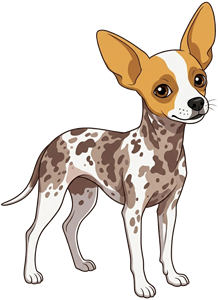
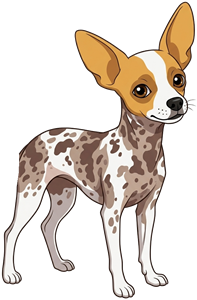
Nossa casinha: cachorros articulados (cabeça, orelhas, rabo e patas se mexem) e Elvis sem rabo

diff --git a/ar/caes/movimento.js b/ar/caes/movimento.js
@@ -1,0 +1,102 @@
+// Movimento dos cachorros desenhados. Duas camadas:
+//  1) transformar(): movimento do corpo todo (respirar, pulinho ao andar, achatar para deitar, empinar ao latir...)
+//  2) articular(): ângulo de cada articulação (cabeça, 2 orelhas, rabo, 4 patas) por ação, com mistura de 0,25 s entre ações.
+// Quem desenha (malha.js, com WebGL) usa os dois; desenho.js (sem WebGL) usa só o primeiro.
+const S = Math.sin, C = Math.cos, PI = Math.PI;
+const salto = (t) => { const k = (t % 0.45) / 0.45; return k < 0.32 ? S((k / 0.32) * PI) : 0; };
+const suave = (x) => x * x * (3 - 2 * x);
+
+// [esticar x, esticar y, inclinar (rad, + = cabeça para baixo), subir (fração da altura), deslocar x (fração da altura)]
+export function xf(a, t, tA, f, p0, sentada) {
+  const bob = sentada ? 0.075 : 0.04, bal = sentada ? 0.07 : 0.035;
+  switch (a) {
+    case 'walk': return [1, 1 + 0.015 * S(f * 2), bal * S(f), Math.abs(S(f)) * bob, 0];
+    case 'run': return [1 + 0.05 * S(f * 2 + 1), 1 - 0.04 * S(f * 2 + 1), 0.11 + 0.03 * S(f * 2), Math.max(0, S(f)) * (sentada ? 0.14 : 0.1), 0];
+    case 'jump': { const u = Math.max(0, p0); return [1 / (1 + u * 0.35), 1 + u * 0.35, -0.05, 0, 0]; }
+    case 'sit': return [1.03, sentada ? 1 : 0.9 + 0.012 * S(t * 2.2), -0.03, 0, 0];
+    case 'lie': return [1.1, 0.64 + 0.012 * S(t * 2), 0, 0, 0];
+    case 'sleep': return [1.12, 0.6 + 0.03 * S(t * 1.5), 0.02, 0, 0];
+    case 'curl': return [1.05, 0.62 + 0.01 * S(t * 2), 0.03, 0, 0.004 * S(t * 55)];
+    case 'shiver': return [1, 0.96, 0.02 * S(t * 55), 0, 0.006 * S(t * 47)];
+    case 'pant': return [1 - 0.012 * S(t * 14), 1 + 0.028 * S(t * 14), 0, 0, 0];
+    case 'bark': { const b = salto(tA); return [1 - 0.04 * b, 1 + 0.08 * b, -0.07 * b, 0.06 * b, 0]; }
+    case 'eat': case 'drink': return [1, 0.96, sentada ? 0.12 : 0.04, 0, 0.01];
+    case 'peeM': return [1, 1, -0.06, 0, 0];
+    case 'peeF': return [1.04, 0.84, 0.05, 0, 0];
+    case 'fight': return [1 + 0.04 * S(t * 8), 1, 0.1 * S(t * 8), Math.max(0, S(t * 5)) * 0.05, 0.02 * S(t * 8)];
+    case 'playbow': return [1, 0.92, sentada ? 0.15 : 0.1, 0, 0];
+    default: return [1 - 0.007 * S(t * 2.4), 1 + 0.014 * S(t * 2.4), 0.012 * S(t * 0.8), 0, 0]; // idle: respirando
+  }
+}
+
+// movimento do corpo todo, já misturado com a ação anterior. Devolve [sx, sy, rot, subir (px), deslocar x (px)]
+export function transformar(d, H, saida = [0, 0, 0, 0, 0]) {
+  const sentada = d.cfg.raca === 'shihtzu', p0 = d.p ? d.p[0] : 0;
+  const a = xf(d.acao, d.t, d.tA, d.fase, p0, sentada);
+  if (d.mist < 1) {
+    const b = xf(d.acaoAnt, d.t, d.tAnt, d.fase, 0, sentada), k = suave(d.mist);
+    for (let i = 0; i < 5; i++) a[i] = b[i] + (a[i] - b[i]) * k;
+  }
+  saida[0] = a[0]; saida[1] = a[1]; saida[2] = a[2];
+  saida[3] = a[3] * H + Math.max(0, p0) * d.tam; // pulo grande do evento de brincar (p[0] = subir)
+  saida[4] = a[4] * H;
+  return saida;
+}
+
+// ---- articulações ----
+// matriz [a, b, c, d, tx, ty]: x' = a·x + c·y + tx ; y' = b·x + d·y + ty
+const rot = (a, px, py) => { const c = C(a), s = S(a); return [c, s, -s, c, px - (c * px - s * py), py - (s * px + c * py)]; };
+const mul = (M, N) => [M[0] * N[0] + M[2] * N[1], M[1] * N[0] + M[3] * N[1], M[0] * N[2] + M[2] * N[3], M[1] * N[2] + M[3] * N[3],
+  M[0] * N[4] + M[2] * N[5] + M[4], M[1] * N[4] + M[3] * N[5] + M[5]];
+
+const OFF_ANDAR = [PI / 2, PI * 1.5, 0, PI], OFF_CORRER = [0, 0.35, PI, PI + 0.35];
+const CHAVES = ['cab', 'orA', 'orB', 'rabo', 'p0', 'p1', 'p2', 'p3'];
+
+// ângulos (rad; + = sentido horário na tela). cab + = cabeça para baixo; rabo + = rabo para cima; pernas + = pé para trás
+function angulos(a, t, tA, f, d, o) {
+  const E = d.energia, al = d.alegria == null ? 0.5 : d.alegria, ph = d.sem || 0;
+  o.cab = 0.045 * S(t * 0.9 + ph) + 0.03 * S(t * 2.3 + ph * 2);
+  o.orA = o.orB = 0.09 * S(t * 1.3 + ph);
+  o.orB -= Math.max(0, S(t * 0.43 + ph * 3) - 0.93) * 9; // de vez em quando uma orelha dá uma tremidinha
+  o.rabo = (0.16 + 0.3 * al) * S(t * (7 + 6 * E) + ph);
+  o.p0 = o.p1 = o.p2 = o.p3 = 0;
+  switch (a) {
+    case 'walk':
+      for (let i = 0; i < 4; i++) o['p' + i] = 0.38 * S(f + OFF_ANDAR[i]);
+      o.cab += 0.05 * S(f * 2); o.rabo += 0.1; break;
+    case 'run':
+      for (let i = 0; i < 4; i++) o['p' + i] = 0.72 * S(f + OFF_CORRER[i]);
+      o.cab = -0.08 + 0.06 * S(f * 2); o.orA = o.orB = -0.38 + 0.1 * S(f * 2); o.rabo = 0.35 + 0.3 * S(f * 2); break;
+    case 'jump': o.p0 = o.p1 = -0.8; o.p2 = o.p3 = 0.55; o.cab = -0.12; o.orA = o.orB = -0.4; o.rabo = 0.5; break;
+    case 'sit': o.cab = -0.05 + 0.04 * S(t * 0.7 + ph); o.rabo *= 0.5; break;
+    case 'lie': o.cab = 0.1 + 0.04 * S(t * 0.4 + ph); o.rabo *= 0.3; break;
+    case 'sleep': o.cab = 0.45 + 0.02 * S(t * 1.5); o.orA = o.orB = 0.1; o.rabo = 0.05 * S(t * 1.5); break;
+    case 'curl': o.cab = 0.5; o.orA = o.orB = -0.3; o.rabo = -0.6 + 0.04 * S(t * 55); break;
+    case 'shiver': o.cab = 0.12 + 0.025 * S(t * 55); o.orA = o.orB = -0.3; o.rabo = -0.5 + 0.05 * S(t * 47); break;
+    case 'pant': o.cab += 0.03 * S(t * 14); o.rabo *= 1.2; break;
+    case 'bark': { const k = salto(tA); o.cab = -0.22 * k; o.orA = o.orB = -0.2 * k; o.rabo = 0.5 * S(t * 15); break; }
+    case 'eat': case 'drink': o.cab = 0.55 + 0.07 * S(t * 9); o.orA = o.orB = 0.15; o.p0 = o.p1 = -0.14; o.rabo = 0.3 * S(t * 11 + ph); break;
+    case 'peeM': o.p2 = -1.15; o.cab = -0.1; o.rabo = 0.25; break;
+    case 'peeF': o.cab = 0.1; o.rabo = 0.35; break;
+    case 'fight': o.p0 = -0.9 + 0.5 * S(t * 12); o.p1 = -0.9 + 0.5 * S(t * 12 + PI); o.cab = 0.15 * S(t * 3); o.orA = o.orB = -0.2; o.rabo = 0.5 * S(t * 12); break;
+    case 'playbow': o.p0 = o.p1 = -0.55; o.cab = 0.25; o.rabo = 0.5 * S(t * 13); break;
+    default: break; // idle
+  }
+}
+
+const A1 = {}, A2 = {};
+// escreve as matrizes das 8 articulações em M (32 números) e T (16 números), na ordem: cabeça, orelha A, orelha B, rabo, 4 patas
+export function articular(d, ossos, M, T) {
+  angulos(d.acao, d.t, d.tA, d.fase, d, A1);
+  if (d.mist < 1) {
+    angulos(d.acaoAnt, d.t, d.tAnt, d.fase, d, A2);
+    const k = suave(d.mist);
+    for (const c of CHAVES) A1[c] = A2[c] + (A1[c] - A2[c]) * k;
+  }
+  if (d.cfg.raca === 'shihtzu') { A1.cab *= 0.5; A1.orA *= 0.6; A1.orB *= 0.6; } // sentada e fofa: cabeça e orelhas mexem menos
+  const mh = rot(A1.cab, ossos.cabeca.p[0], ossos.cabeca.p[1]);
+  const mats = [mh, mul(mh, rot(A1.orA, ossos.orelhas[0].p[0], ossos.orelhas[0].p[1])), mul(mh, rot(A1.orB, ossos.orelhas[1].p[0], ossos.orelhas[1].p[1])),
+    rot(A1.rabo, ossos.rabo.p[0], ossos.rabo.p[1])];
+  for (let i = 0; i < 4; i++) mats.push(rot(A1['p' + i], ossos.pernas[i].p[0], ossos.pernas[i].p[1]));
+  for (let i = 0; i < 8; i++) { const m = mats[i]; M[i * 4] = m[0]; M[i * 4 + 1] = m[1]; M[i * 4 + 2] = m[2]; M[i * 4 + 3] = m[3]; T[i * 2] = m[4]; T[i * 2 + 1] = m[5]; }
+}

diff --git a/ar/caes/malha.js b/ar/caes/malha.js
@@ -1,0 +1,102 @@
+// Boneco articulado em WebGL: cada desenho (ar/caes/img/*.png) vira uma grade de triângulos e as articulações (cabeça, orelhas, rabo,
+// 4 patas; ver `ossos` em config.js) puxam os pontos da grade, com transição suave entre as partes. Mantém a aparência do desenho e
+// dá movimento de verdade. Se o aparelho não tiver WebGL, dogs3d.js usa desenho.js (imagem inteira, sem articulações).
+import { articular, transformar } from './movimento.js';
+
+const VS = `
+attribute vec2 aUV; attribute vec4 aWa; attribute vec4 aWb;
+uniform vec2 uNat; uniform vec4 uM[8]; uniform vec2 uT[8];
+uniform vec4 uG; uniform vec4 uP; uniform vec2 uRes;
+varying vec2 vUV;
+void main() {
+  vec2 p0 = aUV * uNat;
+  float w[8];
+  w[0] = aWa.x; w[1] = aWa.y; w[2] = aWa.z; w[3] = aWa.w; w[4] = aWb.x; w[5] = aWb.y; w[6] = aWb.z; w[7] = aWb.w;
+  vec2 p = p0;
+  for (int i = 0; i < 8; i++) {
+    vec4 m = uM[i];
+    vec2 q = vec2(m.x * p0.x + m.z * p0.y, m.y * p0.x + m.w * p0.y) + uT[i];
+    p += w[i] * (q - p0);
+  }
+  vec2 l = (p - vec2(uNat.x * 0.5, uNat.y)) * uG.x * vec2(uP.z, uP.w);
+  float c = cos(uG.z), s = sin(uG.z);
+  l = vec2(c * l.x - s * l.y, s * l.x + c * l.y);
+  l.x *= uG.y;
+  vec2 sc = vec2(uP.x + l.x, uP.y + l.y);
+  gl_Position = vec4(sc.x / uRes.x * 2.0 - 1.0, 1.0 - sc.y / uRes.y * 2.0, 0.0, 1.0);
+  vUV = aUV;
+}`;
+const FS = `precision mediump float; varying vec2 vUV; uniform sampler2D uTex; void main() { gl_FragColor = texture2D(uTex, vUV); }`;
+
+const NX = 26, NY = 34; // grade de pontos
+const sm = (x) => (x <= 0 ? 0 : x >= 1 ? 1 : x * x * (3 - 2 * x));
+const regiao = (x, y, r, f) => sm((x - r[0]) / f) * sm((r[2] - x) / f) * sm((y - r[1]) / f) * sm((r[3] - y) / f);
+
+export function criarMalha(cfgs) {
+  const cv = document.createElement('canvas'); cv.className = 'caes-tela';
+  const gl = cv.getContext('webgl', { alpha: true, premultipliedAlpha: true, antialias: false, powerPreference: 'low-power' });
+  if (!gl) return null;
+  const sh = (tipo, fonte) => { const s = gl.createShader(tipo); gl.shaderSource(s, fonte); gl.compileShader(s); return gl.getShaderParameter(s, gl.COMPILE_STATUS) ? s : null; };
+  const vs = sh(gl.VERTEX_SHADER, VS), fs = sh(gl.FRAGMENT_SHADER, FS);
+  if (!vs || !fs) return null;
+  const pr = gl.createProgram(); gl.attachShader(pr, vs); gl.attachShader(pr, fs); gl.linkProgram(pr);
+  if (!gl.getProgramParameter(pr, gl.LINK_STATUS)) return null;
+  gl.useProgram(pr); gl.enable(gl.BLEND); gl.blendFunc(gl.ONE, gl.ONE_MINUS_SRC_ALPHA); gl.pixelStorei(gl.UNPACK_PREMULTIPLY_ALPHA_WEBGL, true);
+  const L = { aUV: gl.getAttribLocation(pr, 'aUV'), aWa: gl.getAttribLocation(pr, 'aWa'), aWb: gl.getAttribLocation(pr, 'aWb') };
+  const U = {}; for (const n of ['uNat', 'uM', 'uT', 'uG', 'uP', 'uRes', 'uTex']) U[n] = gl.getUniformLocation(pr, n);
+  gl.uniform1i(U.uTex, 0);
+  gl.enableVertexAttribArray(L.aUV); gl.enableVertexAttribArray(L.aWa); gl.enableVertexAttribArray(L.aWb);
+
+  const imgs = {}; // id -> { img, tex, buf, idx, n, pronto }
+  const M = new Float32Array(32), T = new Float32Array(16), xfm = [0, 0, 0, 0, 0];
+  let W = 1, H = 1;
+
+  function construir(cfg, o) {
+    const img = o.img, nw = img.naturalWidth, nh = img.naturalHeight, os = cfg.ossos;
+    const regs = [os.cabeca, os.orelhas[0], os.orelhas[1], os.rabo, ...os.pernas]; // mesma ordem das articulações
+    const dados = new Float32Array(NX * NY * 10);
+    for (let j = 0; j < NY; j++) for (let i = 0; i < NX; i++) {
+      const u = i / (NX - 1), v = j / (NY - 1), x = u * nw, y = v * nh, w = new Array(8);
+      for (let k = 0; k < 8; k++) w[k] = regiao(x, y, regs[k].r, regs[k].f);
+      w[0] *= 1 - Math.max(w[1], w[2]);                         // a cabeça não leva junto o que a orelha mexe sozinha
+      const soma = w.reduce((a, b) => a + b, 0); if (soma > 1) for (let k = 0; k < 8; k++) w[k] /= soma;
+      const b = (j * NX + i) * 10; dados[b] = u; dados[b + 1] = v; for (let k = 0; k < 8; k++) dados[b + 2 + k] = w[k];
+    }
+    const idx = new Uint16Array((NX - 1) * (NY - 1) * 6); let q = 0;
+    for (let j = 0; j < NY - 1; j++) for (let i = 0; i < NX - 1; i++) { const a = j * NX + i, b = a + 1, c = a + NX, d = c + 1; idx.set([a, b, c, b, d, c], q); q += 6; }
+    o.buf = gl.createBuffer(); gl.bindBuffer(gl.ARRAY_BUFFER, o.buf); gl.bufferData(gl.ARRAY_BUFFER, dados, gl.STATIC_DRAW);
+    o.idx = gl.createBuffer(); gl.bindBuffer(gl.ELEMENT_ARRAY_BUFFER, o.idx); gl.bufferData(gl.ELEMENT_ARRAY_BUFFER, idx, gl.STATIC_DRAW);
+    o.n = idx.length;
+    o.tex = gl.createTexture(); gl.bindTexture(gl.TEXTURE_2D, o.tex);
+    gl.texImage2D(gl.TEXTURE_2D, 0, gl.RGBA, gl.RGBA, gl.UNSIGNED_BYTE, img);
+    gl.texParameteri(gl.TEXTURE_2D, gl.TEXTURE_MIN_FILTER, gl.LINEAR); gl.texParameteri(gl.TEXTURE_2D, gl.TEXTURE_MAG_FILTER, gl.LINEAR);
+    gl.texParameteri(gl.TEXTURE_2D, gl.TEXTURE_WRAP_S, gl.CLAMP_TO_EDGE); gl.texParameteri(gl.TEXTURE_2D, gl.TEXTURE_WRAP_T, gl.CLAMP_TO_EDGE);
+    o.nat = [nw, nh]; o.pronto = true;
+  }
+  for (const cfg of cfgs) {
+    const o = imgs[cfg.id] = { img: new Image(), pronto: false };
+    o.img.decoding = 'async'; o.img.onload = () => { if (!gl.isContextLost()) construir(cfg, o); };
+    o.img.src = new URL('./img/' + cfg.imagem, import.meta.url).href;
+  }
+
+  return {
+    canvas: cv,
+    tamanho(w, h, dpr) { W = w; H = h; cv.width = Math.round(w * dpr); cv.height = Math.round(h * dpr); gl.viewport(0, 0, cv.width, cv.height); },
+    limpar() { gl.clearColor(0, 0, 0, 0); gl.clear(gl.COLOR_BUFFER_BIT); },
+    larguraDe(cfg) { const o = imgs[cfg.id]; return o && o.pronto ? o.nat[0] / o.nat[1] : 0.75; },
+    desenhar(d, lado) {
+      const o = imgs[d.cfg.id]; if (!o || !o.pronto) return;
+      const alt = d.tam * 1.3, t = transformar(d, alt, xfm);
+      articular(d, d.cfg.ossos, M, T);
+      gl.bindBuffer(gl.ARRAY_BUFFER, o.buf); gl.bindBuffer(gl.ELEMENT_ARRAY_BUFFER, o.idx);
+      gl.vertexAttribPointer(L.aUV, 2, gl.FLOAT, false, 40, 0); gl.vertexAttribPointer(L.aWa, 4, gl.FLOAT, false, 40, 8); gl.vertexAttribPointer(L.aWb, 4, gl.FLOAT, false, 40, 24);
+      gl.bindTexture(gl.TEXTURE_2D, o.tex);
+      gl.uniform2f(U.uNat, o.nat[0], o.nat[1]); gl.uniform4fv(U.uM, M); gl.uniform2fv(U.uT, T);
+      gl.uniform4f(U.uG, alt / o.nat[1], lado, t[2], 0);
+      gl.uniform4f(U.uP, d.x + t[4] * lado, d.y - t[3], t[0], t[1]);
+      gl.uniform2f(U.uRes, W, H);
+      gl.drawElements(gl.TRIANGLES, o.n, gl.UNSIGNED_SHORT, 0);
+    },
+    destruir() { for (const id in imgs) { const o = imgs[id]; if (o.tex) gl.deleteTexture(o.tex); if (o.buf) gl.deleteBuffer(o.buf); if (o.idx) gl.deleteBuffer(o.idx); } gl.getExtension('WEBGL_lose_context')?.loseContext(); cv.remove(); },
+  };
+}

diff --git a/ar/caes/desenho.js b/ar/caes/desenho.js
@@ -1,6 +1,7 @@
-// Cachorros em desenho animado: a imagem de cada cachorro (ar/caes/img/*.png, feitas a partir dos desenhos do dono) ganha movimento
-// por cima: respirar, pulinhos ao andar, empinar ao latir, achatar para sentar/deitar/dormir, balançar ao brincar, inclinar para comer.
-// As imagens olham para a direita; o app espelha quando o cachorro anda para a esquerda. Para mudar a aparência, troque o PNG.
+// Sem WebGL: o desenho inteiro (ar/caes/img/*.png) com movimento do corpo todo (movimento.js): respirar, pulinhos, achatar para deitar.
+// Com WebGL, malha.js articula cabeça, orelhas, rabo e patas. As imagens olham para a direita; o app espelha ao andar para a esquerda.
+import { transformar } from './movimento.js';
+
 const IMG = {};
 function carregar(cfg) {
   if (!IMG[cfg.id]) { const i = new Image(); i.decoding = 'async'; i.src = new URL('./img/' + cfg.imagem, import.meta.url).href; IMG[cfg.id] = i; }
@@ -10,46 +11,20 @@ export function precarregar(cfgs) { cfgs.forEach(carregar); }
 
 const ALT = 1.3; // altura do desenho = tamanho × 1,3
 export const alturaCabeca = () => ALT;
+const tmp = [0, 0, 0, 0, 0];
 
-const S = Math.sin, PI = Math.PI;
-const salto = (t) => { const k = (t % 0.45) / 0.45; return k < 0.32 ? S((k / 0.32) * PI) : 0; };
-
-// [esticar x, esticar y, inclinar (rad, + = cabeça para baixo), subir (fração da altura), deslocar x (fração da altura)]
-function xf(a, t, tA, f, p) {
-  switch (a) {
-    case 'walk': return [1, 1 + 0.015 * S(f * 2), 0.035 * S(f), Math.abs(S(f)) * 0.04, 0];
-    case 'run': return [1 + 0.05 * S(f * 2 + 1), 1 - 0.04 * S(f * 2 + 1), 0.11 + 0.03 * S(f * 2), Math.max(0, S(f)) * 0.1, 0];
-    case 'jump': { const u = Math.max(0, p ? p[0] : 0); return [1 / (1 + u * 0.35), 1 + u * 0.35, -0.05, 0, 0]; }
-    case 'sit': return [1.03, 0.9 + 0.012 * S(t * 2.2), -0.03, 0, 0];
-    case 'lie': return [1.1, 0.64 + 0.012 * S(t * 2), 0, 0, 0];
-    case 'sleep': return [1.12, 0.6 + 0.03 * S(t * 1.5), 0.02, 0, 0];
-    case 'curl': return [1.05, 0.62 + 0.01 * S(t * 2), 0.03, 0, 0.004 * S(t * 55)];
-    case 'shiver': return [1, 0.96, 0.02 * S(t * 55), 0, 0.006 * S(t * 47)];
-    case 'pant': return [1 - 0.012 * S(t * 14), 1 + 0.028 * S(t * 14), 0, 0, 0];
-    case 'bark': { const b = salto(tA); return [1 - 0.04 * b, 1 + 0.08 * b, -0.07 * b, 0.06 * b, 0]; }
-    case 'eat': case 'drink': return [1, 0.96, 0.3 + 0.07 * S(t * 9), 0, 0.01];
-    case 'peeM': return [1, 1, -0.13, 0, 0];
-    case 'peeF': return [1.04, 0.84, 0.05, 0, 0];
-    case 'fight': return [1 + 0.04 * S(t * 8), 1, 0.13 * S(t * 8), Math.max(0, S(t * 5)) * 0.05, 0.02 * S(t * 8)];
-    case 'playbow': return [1, 0.92, 0.32, 0, 0];
-    default: return [1 - 0.007 * S(t * 2.4), 1 + 0.014 * S(t * 2.4), 0.015 * S(t * 0.8), 0, 0]; // idle: respirando
-  }
+export function desenharSombra(c, d, aspecto) {
+  const H = d.tam * ALT, W = H * aspecto, sub = transformar(d, H, tmp)[3];
+  c.fillStyle = 'rgba(0,0,0,0.25)'; c.beginPath(); c.ellipse(d.x, d.y, W * 0.36 * (1 - Math.min(0.3, sub / H)), d.tam * 0.07, 0, 0, 7); c.fill();
 }
 
 export function desenharCao(c, d, lado) {
-  const cfg = d.cfg, im = carregar(cfg);
+  const im = carregar(d.cfg);
   if (!im.complete || !im.naturalWidth) return;
-  const s = d.tam, H = s * ALT, W = (H * im.naturalWidth) / im.naturalHeight, p = d.p;
-  const a = xf(d.acao, d.t, d.tA, d.fase, [p[0]]);
-  if (d.mist < 1) { // mistura 0,25 s com a ação anterior
-    const b = xf(d.acaoAnt, d.t, d.tAnt, d.fase, [0]), k = d.mist * d.mist * (3 - 2 * d.mist);
-    for (let i = 0; i < 5; i++) a[i] = b[i] + (a[i] - b[i]) * k;
-  }
-  const sub = a[3] * H + Math.max(0, p[0]) * s; // pulo grande do evento de brincar (p[0] = subir)
-  // sombra no chão
-  c.fillStyle = 'rgba(0,0,0,0.25)'; c.beginPath(); c.ellipse(d.x, d.y, W * 0.36 * (1 - Math.min(0.3, sub / H)), s * 0.07, 0, 0, 7); c.fill();
+  const H = d.tam * ALT, W = (H * im.naturalWidth) / im.naturalHeight, a = transformar(d, H, tmp);
+  desenharSombra(c, d, im.naturalWidth / im.naturalHeight);
   c.save();
-  c.translate(d.x + a[4] * H * lado, d.y - sub);
+  c.translate(d.x + a[4] * lado, d.y - a[3]);
   c.scale(lado, 1); c.rotate(a[2]); c.scale(a[0], a[1]);
   c.drawImage(im, -W / 2, -H, W, H);
   c.restore();

diff --git a/ar/caes/dogs3d.js b/ar/caes/dogs3d.js
@@ -6,7 +6,8 @@
 import { CACHORROS } from './config.js';
 import { ACOES, aplicarPose, N, MISTURA, NY, HX, HY, BLINK, JAW } from './animacoes.js';
 import { criarNecessidades } from './necessidades.js';
-import { desenharCao, desenharTigela, alturaCabeca, precarregar } from './desenho.js';
+import { desenharCao, desenharSombra, desenharTigela, alturaCabeca, precarregar } from './desenho.js';
+import { criarMalha } from './malha.js';
 
 const INCLINA = 0.42;                 // câmera um pouco de cima
 const FPS = 30;
@@ -41,7 +42,7 @@ export function iniciarCachorros(op = {}) {
   // O 3D só carrega se a página pedir (op.motor3d = { THREE, ...módulo modelo.js }); assim o desenho não baixa a biblioteca 3D.
   const { THREE, criarModelo, sombraTextura, descartarCompartilhadas } = op.motor3d || {};
   const gl = op.estilo === '3d' && !!op.motor3d && temWebGL(); // padrão: desenho animado 2D (leve, funciona em qualquer aparelho)
-  let tela2 = null, c2 = null, pr2 = 1;
+  let tela2 = null, c2 = null, pr2 = 1, malha = null;
   const ordem = [];
   const caes = [];
   let renderer, cena, camera, rodando = true, raf = 0, tempo = 0, ultQuadro = 0, ultNec = Date.now(), fps = 0, qFps = 0, tFps = 0;
@@ -70,7 +71,9 @@ export function iniciarCachorros(op = {}) {
     mAgua = new THREE.MeshStandardMaterial({ color: 0x6fc3ff, roughness: 0.08, transparent: true, opacity: 0.85 });
   } else {
     tela2 = document.createElement('canvas'); tela2.className = 'caes-tela'; c2 = tela2.getContext('2d');
-    camada.insertBefore(tela2, baloes); precarregar(cfgs);
+    camada.insertBefore(tela2, baloes);
+    malha = op.semMalha ? null : criarMalha(cfgs); // cachorros articulados (WebGL); sem WebGL, a imagem inteira
+    if (malha) camada.insertBefore(malha.canvas, baloes); else precarregar(cfgs);
   }
 
   cfgs.forEach((cfg, i) => {
@@ -100,7 +103,7 @@ export function iniciarCachorros(op = {}) {
   }
   function tamanhoTela() {
     if (gl) { renderer.setSize(W(), H()); camera.right = W(); camera.bottom = -H(); camera.updateProjectionMatrix(); }
-    else { pr2 = Math.min(2, window.devicePixelRatio || 1); tela2.width = Math.round(W() * pr2); tela2.height = Math.round(H() * pr2); }
+    else { pr2 = Math.min(2, window.devicePixelRatio || 1); tela2.width = Math.round(W() * pr2); tela2.height = Math.round(H() * pr2); if (malha) malha.tamanho(W(), H(), pr2); }
     for (const d of caes) if (!d.ocupado && !d.tarefa) { const c = casa(d); d.x = c.x; d.y = c.y; }
   }
   tamanhoTela();
@@ -455,7 +458,8 @@ export function iniciarCachorros(op = {}) {
       c2.setTransform(pr2, 0, 0, pr2, 0, 0); c2.clearRect(0, 0, W(), H());
       for (const tb of tigelas) desenharTigela(c2, tb);
       ordem.sort(porY);
-      for (const d of ordem) if (d.visivel) desenharCao(c2, d, d.lado);
+      if (malha) { malha.limpar(); for (const d of ordem) if (d.visivel) { desenharSombra(c2, d, malha.larguraDe(d.cfg)); malha.desenhar(d, d.lado); } }
+      else for (const d of ordem) if (d.visivel) desenharCao(c2, d, d.lado);
     }
   }
   const porY = (a, b) => a.y - b.y;
@@ -513,7 +517,7 @@ export function iniciarCachorros(op = {}) {
     destacarJogo() { barra.destacar(); },
     reler: lerAmbiente,
     ambiente: amb,
-    estilo: gl ? '3d' : 'desenho',
+    estilo: gl ? '3d' : malha ? 'desenho articulado' : 'desenho',
     stats: () => ({ fps: Math.round(fps), triangulos: gl ? renderer.info.render.triangles : 0, chamadas: gl ? renderer.info.render.calls : 0, porCachorro: caes.map((d) => [d.cfg.id, d.m?.tris || 0]), trisModelos: tris, pixelRatio: gl ? renderer.getPixelRatio() : 1 }),
     destruir() {
       cancelAnimationFrame(raf); rodando = false; nec.salvar();
@@ -524,6 +528,7 @@ export function iniciarCachorros(op = {}) {
         descartarCompartilhadas(); sombraTex.dispose(); geoTigela.dispose(); mTigela.dispose(); mRacao.dispose(); mAgua.dispose();
         renderer.dispose(); renderer.forceContextLoss?.();
       }
+      if (malha) malha.destruir();
       ac?.close?.(); camada.remove(); barra.el.remove();
     },
   };

diff --git a/ar/caes/config.js b/ar/caes/config.js
@@ -3,11 +3,18 @@
 // nome/artigo aparecem nos balões e nos avisos ("O Elvis está com fome!").
 export const CACHORROS = [
   {
-    id: 'elvis', nome: 'Elvis', artigo: 'o', sexo: 'M', raca: 'pinscher', imagem: 'elvis.png', // pinscher macho branco malhado, o menor
+    id: 'elvis', nome: 'Elvis', artigo: 'o', sexo: 'M', raca: 'pinscher', imagem: 'elvis.png', // pinscher macho branco malhado, sem rabo, o menor
     tamanho: 54,          // tamanho em pixels (o desenho tem 1,3 vez isso de altura)
     energia: 1.0,         // 0 calmo … 1 agitado (velocidade, frequência dos eventos)
     voz: 1.35,            // agudo do latido
     corpo: { perna: 0.50 },
+    ossos: { // articulações no desenho (pixels da imagem): p = ponto onde gira, r = região que acompanha [x1, y1, x2, y2], f = suavidade
+      cabeca: { p: [128, 128], r: [66, -60, 240, 135], f: 14 },
+      orelhas: [{ p: [120, 78], r: [70, 22, 130, 100], f: 8 }, { p: [170, 52], r: [154, -20, 220, 72], f: 6 }],
+      rabo: { p: [0, 0], r: [-10, -10, -5, -5], f: 1 }, // sem rabo
+      pernas: [{ p: [113, 198], r: [96, 198, 130, 400], f: 10 }, { p: [146, 205], r: [130, 205, 170, 400], f: 10 },
+        { p: [30, 188], r: [-4, 188, 42, 400], f: 10 }, { p: [62, 192], r: [40, 192, 80, 400], f: 10 }],
+    },
   },
   {
     id: 'belinha', nome: 'Belinha', artigo: 'a', sexo: 'F', raca: 'pinscher', imagem: 'belinha.png', // pinscher fêmea caramela, média
@@ -15,6 +22,13 @@ export const CACHORROS = [
     energia: 0.75,        // atrevida
     voz: 1.15,
     corpo: { perna: 0.56 },
+    ossos: {
+      cabeca: { p: [130, 125], r: [90, -60, 260, 130], f: 14 },
+      orelhas: [{ p: [100, 70], r: [66, -10, 124, 85], f: 8 }, { p: [175, 60], r: [152, -20, 240, 78], f: 6 }],
+      rabo: { p: [40, 150], r: [-40, 124, 42, 162], f: 8 },
+      pernas: [{ p: [128, 192], r: [108, 192, 146, 400], f: 10 }, { p: [152, 198], r: [140, 198, 172, 400], f: 10 },
+        { p: [40, 175], r: [-10, 175, 54, 400], f: 10 }, { p: [62, 190], r: [52, 190, 80, 400], f: 10 }],
+    },
   },
   {
     id: 'maya', nome: 'Maya', artigo: 'a', sexo: 'F', raca: 'shihtzu', imagem: 'maya.png', // shih tzu com laços rosa, a maior
@@ -22,5 +36,11 @@ export const CACHORROS = [
     energia: 0.35,        // calma
     voz: 0.95,
     corpo: { perna: 0.34 },
+    ossos: { // sentada: só cabeça, orelhas e rabo (as patas não se mexem; ela anda "pulando")
+      cabeca: { p: [150, 190], r: [40, -60, 330, 205], f: 18 },
+      orelhas: [{ p: [92, 70], r: [40, 40, 128, 190], f: 12 }, { p: [238, 50], r: [212, 10, 330, 175], f: 10 }],
+      rabo: { p: [55, 228], r: [-40, 175, 62, 270], f: 12 },
+      pernas: [{ p: [0, 0], r: [-10, -10, -5, -5], f: 1 }, { p: [0, 0], r: [-10, -10, -5, -5], f: 1 }, { p: [0, 0], r: [-10, -10, -5, -5], f: 1 }, { p: [0, 0], r: [-10, -10, -5, -5], f: 1 }],
+    },
   },
 ];

diff --git a/CLAUDE.md b/CLAUDE.md
@@ -26,7 +26,7 @@ MOTORA é um PWA (página que funciona como app) para gestão de veículos e mot
 - **Gráfico de temperatura máxima (14/11/2026; SQL `supabase/2026-11-14-ar-temp-dia.sql`, já aplicado):** tabela `ar.temp_dia` (máxima, hora da máxima e mínima por dia, horário de Brasília), preenchida pelo gatilho `ar_device_temp` a cada estado da placa (só grava quando muda). `ar_temp_dias(p_dias)` (só master, até 60 dias). No app de fora, cartão "Temperatura máxima · últimos 7 dias" (`carregarGraf`/`desenharGraf`, SVG sem biblioteca, recarrega a cada 5 min; tocar numa barra mostra máxima/hora/mínima; linha vermelha tracejada = temperatura do automático, se ligado). Só existe no app de fora (o de casa não lê o banco). Histórico começa em 14/11/2026. **Filtro 7 dias | Mês | Ano** (‹ › para trocar de mês/ano): `ar_temp_periodo(p_de, p_ate)` (até 400 dias); Mês = uma barra por dia, Ano = uma barra por mês com a maior máxima do mês (`gFaixa`, `gItens`).
 - **Visual novo (14/11/2026, skill Impeccable, escolha do dono: padrão do app Casa do iPhone):** produto em `ar/PRODUCT.md`, direção em `ar/.impeccable/surfaces/index-html.md`. Modo escuro do iOS (fundo em degradê fixo, blocos translúcidos sem desfoque por desempenho, ligado = bloco branco, ação #0a84ff, temperatura #ff9f0a, frio #64d2ff), título grande, bloco "Ar-condicionado" (`#p`, `#pst`), linha − temperatura + (`.clima`), grupos Modo/Ventilação/Funções. Toque: só `transform` 80 ms. O app de casa (`web.h`) recebeu as mesmas cores na base e nos blocos.
 - **Histórico do quarto (14/11/2026; SQL `supabase/2026-11-14-ar-historico.sql`, já aplicado):** gatilho `ar_device_hist` (`ar.historico`, nunca derruba a sincronização): `ar.uso` (períodos de ar ligado, qualquer origem), `ar.leitura` (uma leitura a cada 5 min, 3 dias) e **aviso de quarto quente** (`ar.device.quente_lim`, padrão 28 °C pedido do dono; `master_alert` ao passar do limite, de novo só depois de cair 1 °C e 3 h). Funções `ar_uso_periodo`, `ar_24h`. Cartão "Histórico do quarto": 24 h | 7 dias | Mês | Ano e Temperatura | Ar ligado. **Lá fora (15/11/2026: só temperatura MEDIDA, nunca previsão, pedido do dono):** estação do aeroporto Santa Genoveva, Goiânia (METAR SBGO, aviationweather.gov, de hora em hora, sem chave). O `ar-aviso` grava em `ar.fora` (`ar_fora_salvar`) e o app lê por `ar_fora(de, ate)` (SQL `supabase/2026-11-15-ar-fora-real.sql`, já aplicado; histórico desde 31/10/2026): linha "Lá fora" embaixo do quarto, tracejado no 24 h e linha cinza tracejada com bolinhas (máxima medida do dia; hoje = até agora) nas barras. Checagem no verificar.mjs impede voltar a usar previsão. O app confere sozinho se há versão nova (o iPhone guarda a página por 10 min) e recarrega.
-- **Cachorros na tela (15/11/2026; SQL `supabase/2026-11-15-ar-caes.sql`, já aplicado; função `ar-caes`, `verify_jwt: false`):** três cachorros em desenho animado (2D, canvas, 30 qps) vivem sobre a tela do app de fora: **Elvis** (pinscher macho branco malhado, cabeça caramelo; o menor), **Belinha** (pinscher fêmea caramela; média) e **Maya** (shih tzu cinza e branca com laços rosa; a maior). A aparência é a dos desenhos que o dono enviou (15/11/2026): `ar/caes/img/elvis.png`, `belinha.png` e `maya.png` (recortados dos desenhos transparentes, olhando para a direita; originais em `dogs-preview/refs/desenhos`, fora do Git). O movimento é por cima da imagem (`ar/caes/desenho.js`: respirar, pulinhos, empinar ao latir, achatar para sentar/deitar/dormir, inclinar para comer; espelha ao andar para a esquerda). Para mudar o visual, troque o PNG; nome, tamanho e jeito ficam em `ar/caes/config.js`. Código em `ar/caes/` (ES modules): `config.js` (nomes, tamanhos, cores e marcas: é onde se ajusta), `desenho.js`, `animacoes.js`, `dogs3d.js` (motor: eventos, toque, comida e água; o 3D antigo ficou só como opção interna), `necessidades.js` (fome/sede/bexiga no `localStorage`, calculadas pelo tempo ao abrir), `avisos.js`, `iniciar.js` (liga depois do login e cuida dos botões em Ajustes → "Cachorros na tela": ligar/desligar, som dos latidos, avisos). Eles entram pelas bordas, latem, brincam de brigar, puxam um botão (`.clima button`, `#m/#f/#x button`, `#mimi`; o botão volta e a função nunca é acionada), fazem xixi, ofegam no calor (quarto > 28 °C ou lá fora > 30 °C sem ar), tremem no frio, deitam com o ar ligado e dormem das 22h às 6h (tocar acorda). Só o cachorro recebe toque. Barra 🍖 💧 no rodapé: arrastar para a tela. **Avisos com o app fechado:** `ar-caes` (cron `ar-caes` a cada 15 min, `call_edge`) calcula fome/sede pelo tempo (`logica.js`, testada em `.github/scripts/teste-ar-caes.mjs`; a cópia em `supabase/functions/ar-caes/` tem que ser igual à de `ar/caes/`, o `verificar.mjs` confere) e manda push pela tabela `public.ar_caes_push` (só a função acessa): máximo 1 aviso por cachorro e necessidade a cada 2 h, nunca das 22h às 7h, agrupa; tocar abre `./?jogo=1` (🍖 💧 piscam). Mesmas chaves VAPID do MOTORA; `ar/sw.js` entende `url` e `tag`. A prévia de desenvolvimento ficou em `dogs-preview/` (fora do Git; painel de depuração com a tecla D).
+- **Cachorros na tela (15/11/2026; SQL `supabase/2026-11-15-ar-caes.sql`, já aplicado; função `ar-caes`, `verify_jwt: false`):** três cachorros em desenho animado (2D, canvas, 30 qps) vivem sobre a tela do app de fora: **Elvis** (pinscher macho branco malhado, cabeça caramelo; o menor), **Belinha** (pinscher fêmea caramela; média) e **Maya** (shih tzu cinza e branca com laços rosa; a maior). A aparência é a dos desenhos que o dono enviou (15/11/2026): `ar/caes/img/elvis.png`, `belinha.png` e `maya.png` (recortados dos desenhos transparentes, olhando para a direita; originais em `dogs-preview/refs/desenhos`, fora do Git). O movimento é de boneco articulado (`ar/caes/malha.js`, WebGL): a imagem vira uma grade de triângulos e 8 articulações (cabeça, 2 orelhas, rabo, 4 patas; pontos e regiões em `ossos` de `ar/caes/config.js`, em pixels da imagem) puxam os pontos; `ar/caes/movimento.js` dá o ângulo de cada articulação por ação (andar, correr, latir, comer, dormir...) e o movimento do corpo todo (respirar, pulinho, achatar para deitar), com mistura de 0,25 s entre ações. A Maya é uma imagem sentada: mexe cabeça, orelhas e rabo e anda pulando. Sem WebGL, `ar/caes/desenho.js` desenha a imagem inteira com o movimento do corpo. Para mudar o visual, troque o PNG; nome, tamanho e jeito ficam em `ar/caes/config.js`. Código em `ar/caes/` (ES modules): `config.js` (nomes, tamanhos, cores e marcas: é onde se ajusta), `desenho.js`, `animacoes.js`, `dogs3d.js` (motor: eventos, toque, comida e água; o 3D antigo ficou só como opção interna), `necessidades.js` (fome/sede/bexiga no `localStorage`, calculadas pelo tempo ao abrir), `avisos.js`, `iniciar.js` (liga depois do login e cuida dos botões em Ajustes → "Cachorros na tela": ligar/desligar, som dos latidos, avisos). Eles entram pelas bordas, latem, brincam de brigar, puxam um botão (`.clima button`, `#m/#f/#x button`, `#mimi`; o botão volta e a função nunca é acionada), fazem xixi, ofegam no calor (quarto > 28 °C ou lá fora > 30 °C sem ar), tremem no frio, deitam com o ar ligado e dormem das 22h às 6h (tocar acorda). Só o cachorro recebe toque. Barra 🍖 💧 no rodapé: arrastar para a tela. **Avisos com o app fechado:** `ar-caes` (cron `ar-caes` a cada 15 min, `call_edge`) calcula fome/sede pelo tempo (`logica.js`, testada em `.github/scripts/teste-ar-caes.mjs`; a cópia em `supabase/functions/ar-caes/` tem que ser igual à de `ar/caes/`, o `verificar.mjs` confere) e manda push pela tabela `public.ar_caes_push` (só a função acessa): máximo 1 aviso por cachorro e necessidade a cada 2 h, nunca das 22h às 7h, agrupa; tocar abre `./?jogo=1` (🍖 💧 piscam). Mesmas chaves VAPID do MOTORA; `ar/sw.js` entende `url` e `tag`. A prévia de desenvolvimento ficou em `dogs-preview/` (fora do Git; painel de depuração com a tecla D).
 - **Código da placa (13/11/2026):** `ar/firmware/gree-esp32/` (reescrito; o da versão 1 se perdeu). Guia em `ar/firmware/LEIA.md`. Versão atual 21 = `gree-v21.bin` e `gree-esp32-completo-v21.bin` (2 a 21 instaladas). **Versão 21 (15/11/2026):** a troca de faixa do automático passou a ser no máximo 1 por minuto (pedido do dono; antes 5 min). **Versão 20 (15/11/2026): lá fora mais frio = janela** (pedido do dono: não ligar o ar, só avisar). Cron `ar-tempo` (15 min) chama `ar-aviso` `{tempo:true}`: última medição do aeroporto (até 2 h) → `ar_fora_gravar` grava o comando `{fora: t}` (SQL `supabase/2026-11-15-ar-janela.sql`, já aplicado). Na placa vale 1 h (`temFora`, estado `fora`). Se o automático ia ligar e lá fora está 3 °C ou mais frio que o quarto (`foraMaisFrio` em `regras.h`, testada), não liga e põe `auto.jan`; o gatilho `ar_device_janela` manda "Abra a janela" pelo `ar-aviso` (1 a cada 2 h, `janela_em`). Quando o quarto chega na escolhida ou lá fora esquenta, volta ao normal. **Versão 19 (14/11/2026): o automático regula o ar** (pedido do dono): liga na faixa da distância quarto − escolhida e troca no máximo a cada 5 min, 1 min desde a versão 21 (`faixaDe`, `regraFaixa`, `tempFaixa`, `ventFaixa` em `regras.h`, testadas): 3 °C ou mais acima = 16° turbo ventilação 3; 1,5 a 3 = 18° ventilação 3; 0,5 a 1,5 = escolhida − 2 (não abaixo de 18) ventilação 2; perto = a escolhida ventilação 1. Mais fria só com 0,3 °C além do limite (menos bipes). Continua desligando em escolhida − 2. Mexer em temperatura, modo, ventilação, turbo ou "A mimi?" tira o ar do automático. Estado `auto.fx` = faixa; textos dos apps com `S.fw>=19`. **Versão 18 (14/11/2026): mais botões da TV** — a TV do dono é Sony (família 0 da busca, SIRC aparelho 1); tabela `TECLAS_SONY` (irdb + IRCC das Bravia) para Entrada, Menu/Início, OK, setas, Voltar (15 bits, 151/35), Sair, Netflix (15 bits, 26/124), Info, Último, Sleep e números. Botões novos na tela: setas com OK, Início, Voltar, Sair, Netflix; "TV/AV" virou "Entrada". Na AOC os botões sem código (255) avisam para ensinar. O `verificar.mjs` confere que todo botão Sony existe em `TECLAS_TV`. **Versão 17 (14/11/2026): barra de volume da TV** (bloco "TV AOC", `#tvv`): o app manda `{tvVol:N}` (arrastando, no máximo 1 por segundo); a placa guarda o volume que acha que a TV está (`tv_vol`, estado `tv.v`, alvo `tv.va`) e dá um toque a cada 200 ms. Na TV do dono o 1º toque com o volume escondido só mostra; com ele na tela (some 1 s depois) cada toque muda 1 (`volDepois` em `regras.h`, testado). Vol +/- também contam. `{tvVolZerar:true}` = 101 toques para baixo (botão Zerar em Ajustar botões da TV); `{tvVolDefinir:N}` só corrige o número. Começou no 0 (a TV estava no 0 em 14/11/2026). Gráfico: barra azul da temperatura de agora sobre a máxima de hoje quando está mais frio (7 dias e Mês). **Versão 16 (14/11/2026): conexão reaproveitada** — o `HTTPClient` da busca virou `static`: o destrutor do HTTPClient fecha a conexão (`stop`) mesmo com `setReuse`, então cada busca abria conexão segura nova (~3,3 s, 24 de 24 na versão 15). **Não voltar a criar o HTTPClient local na busca.** **Versão 15 (14/11/2026):** diário da busca no estado (`sy` = {ms: última, max, r: reusou a conexão, n: abriu nova}). **Versão 14 (14/11/2026):** busca de volta a cada 3 s, sempre: mantém a conexão segura aberta; com 10 s o servidor fechava e o cutucão esperava ~3 s por um novo aperto de mão TLS. **Não aumentar esse intervalo.** **Versão 13 (14/11/2026):** websocket próprio (RFC 6455 mínimo em cima do `WiFiClientSecure` `tlsRt`, funções `rtConectar`/`rtLer`/`rtQuadro`), porque a biblioteca WebSockets (versões 9 a 12) nunca conectou na placa; a biblioteca saiu do `verificar.yml`. Erros vão para `rtd.m`. **Versão 12 (14/11/2026):** a placa mesma tenta o websocket de novo a cada 20 s, fechando antes a conexão da busca (`tlsNuvem`) para sobrar memória; estado `hmax` = maior bloco livre (KB), `rtd.t` = tentativas. **Versão 11 (14/11/2026):** diário do websocket no estado (`rtd` = {c: conexões, q: quedas, a: cutucões recebidos, ok, m: última mensagem}) e ping de websocket a cada 15 s; investigação de quedas da conexão na versão 10. **Versão 10 (14/11/2026):** com o websocket ligado a busca de reserva vai a cada 10 s (sem ele, 3 s) e, depois de aplicar comandos, a placa sincroniza de novo na hora para o app ver o estado novo. Medido em 14/11/2026: antes da versão 9, comando levava 3,5 s em média até a placa. **Versão 9 (14/11/2026): comando na hora** — websocket sempre aberto no Realtime do Supabase (desde a versão 13, websocket próprio; a biblioteca WebSockets 2.7.2 das versões 9 a 12 não conectava), canal `ar-<24 hexa do sha256 da chave>` = `left(ar.device.key_hash, 24)`; o gatilho `ar_cmd_acorda` (SQL `supabase/2026-11-14-ar-acorda.sql`, já aplicado) manda um broadcast vazio a cada comando em `ar.cmd` e a placa chama `ar_device_sync` na hora (a busca a cada 3 s continua de reserva). Estado: `rt` (websocket ligado) e `heap` (KB livres). **Versão 8 (14/11/2026): "A mimi?" na placa** (`{mimi:true}`; `regraMimi` em `regras.h`, testada em `teste-ar-auto.mjs`). **Versão 7 (14/11/2026): o automático desliga 2 °C abaixo** (antes 1 °C; textos dos apps mudam com `S.fw>=7`). **Versão 6 (14/11/2026):** visual novo no app de casa e botão "A mimi?". **Versão 5 (14/11/2026): controle universal de TV** (86 famílias do Flipper Zero, botão "Achar minha TV" em Ajustar botões da TV). **Versão 4 (14/11/2026): controle da TV AOC comum** (NEC 0/189, botões aprendidos do controle original) e abas **Ar | TV** nos dois apps (bloco compartilhado "TV AOC"; detalhes em `ar/firmware/LEIA.md`). **Modo automático:** no horário, liga no Frio na temperatura escolhida quando o quarto está **acima** dela (versão 3, pedido do dono; nessa temperatura ou abaixo não liga) e **desliga em alvo − 2 °C (versão 7; antes − 1 °C), só se foi o automático que ligou** (ligar pelo app, controle, horário ou busca tira o ar do automático) e só dentro do horário (`regras.h`, teste `node .github/scripts/teste-ar-auto.mjs` no `verificar.yml`). O app de fora mostra o texto do desligar só com a placa na versão 2 (`S.fw>=2`) e o do "acima" só na 3 (`S.fw>=3`). Os blocos compartilhados de `web.h` e `ar/index.html` têm que ser iguais (o `verificar.mjs` confere). O `verificar.yml` também compila a placa (tarefa `placa-ar`). **Regra do dono (14/11/2026): sempre que sair uma versão nova da placa, atualize a placa** (aumente o `versao.json`, publique e mande `{"ota":"now"}` em `ar.cmd`; confira `fw` no estado).
 - **Quem ligou/desligou (14/11/2026; SQL `supabase/2026-11-14-ar-evento.sql`, já aplicado):** a cada mudança de `power`, `ar.avisa_ar` grava `ar.device.evento` = {power, origem app|auto|outro, em}; `ar_status` devolve; o bloco do ar no app de fora mostra "Desligado pelo automático às 18:20" / "Ligado pelo app às 18:37 · Frio" (`evTxt`; só quando o evento bate com o estado). Motivo: o dono viu "Desligado" sem saber que o automático tinha desligado.
 - **Botão "A mimi?" (14/11/2026):** nos dois apps, abaixo do bloco do ar: manda `{mimi:true}`: a placa (versão 8) liga no Frio 20 °C com turbo e ventilação 3; depois de 2 h sobe para 22° sem turbo e, a cada 5 min, volta a 20° se o quarto passar de 22 °C e sobe para 22° de novo quando cair a 21 °C (`regraMimi`, `cuidarMimi`; estado `mimi` = {f: fase, r: segundos até a fase 2}). Mexer no ar (ligar/desligar, temperatura, modo, ventilação, turbo) sai do "A mimi?". O desligar da TV em 2 h saiu do botão a pedido do dono (14/11/2026); o comando `tvDesligar` continua na placa. Fica roxo-aceso enquanto o "A mimi?" está ativo. Na Siri: "a mimi", "hora de dormir", "vou dormir" (`AMIMI` em `frase.js`).
